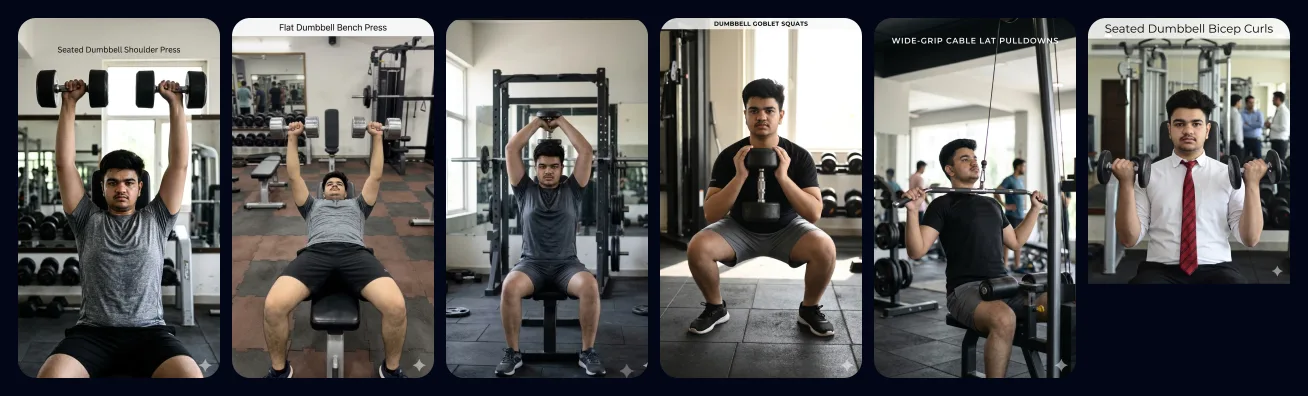
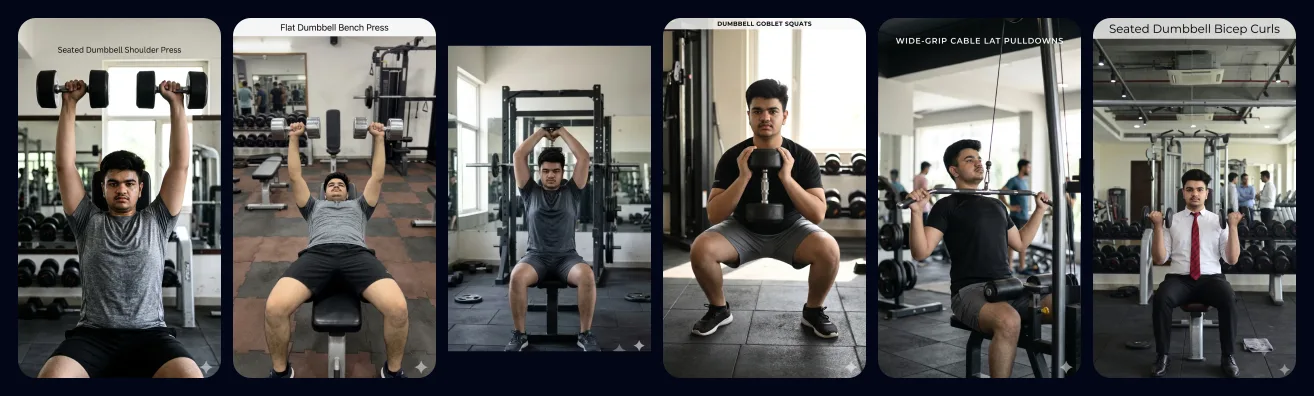
Verify vs Gita; fix stuck-day + streak-timezone bugs; rebuild preview
- README preview rebuilt from the corrected 9:16 images (no more cropped/half tile)
- Bug: a points target above a category's card count made the day un-finishable.
  addCompletion now takes an effective target; Workout/DayDetail cap it to the cards
  actually available that day.
- Bug: getDayStreak compared a UTC date (finishedAt.slice) against local dates, mis-
  counting streaks near midnight — now uses the local calendar date consistently.
- iOS audio unlock: prime the AudioContext on circuit Start so the timer-end chime plays.
- Gita audit: all core laws verified against the implementation.

diff --git a/frontend/src/lib/storage.js b/frontend/src/lib/storage.js
@@ -221,7 +221,7 @@ const ensureWorkout = (data, profileId, weekStartIso, dayNum) => {
   return data.workouts[profileId][weekStartIso][dayNum];
 };
 
-export const addCompletion = (profileId, weekStartIso, dayNum, exerciseId, name) => {
+export const addCompletion = (profileId, weekStartIso, dayNum, exerciseId, name, target) => {
   const data = load();
   const w = ensureWorkout(data, profileId, weekStartIso, dayNum);
   // Prevent duplicates
@@ -244,7 +244,10 @@ export const addCompletion = (profileId, weekStartIso, dayNum, exerciseId, name)
     data.counts[profileId][exerciseId] = (data.counts[profileId][exerciseId] || 0) + 1;
   }
   data.lastCompletionAt[profileId] = new Date().toISOString();
-  if (w.completions.length >= getPointsTarget()) {
+  // `target` lets the caller cap completion at the cards actually available that day
+  // (so a high points setting on a small category can't make the day un-finishable).
+  const effectiveTarget = Math.max(1, target || getPointsTarget());
+  if (w.completions.length >= effectiveTarget) {
     w.dayCompleted = true;
     w.finishedAt = new Date().toISOString();
     data.progress[profileId] ||= {};
@@ -519,15 +522,16 @@ export const updateCustomCard = (profileId, cardId, patch) => {
 // Current consecutive-day workout streak (counts today if done, else from yesterday).
 export const getDayStreak = (profileId) => {
   const wk = load().workouts[profileId] || {};
+  const iso = (dt) =>
+    `${dt.getFullYear()}-${String(dt.getMonth() + 1).padStart(2, "0")}-${String(dt.getDate()).padStart(2, "0")}`;
   const set = new Set();
   Object.values(wk).forEach((week) =>
     Object.values(week).forEach((d) => {
-      if (d?.dayCompleted && d.finishedAt) set.add(d.finishedAt.slice(0, 10));
+      // Use the LOCAL calendar date of the completion (finishedAt is a UTC ISO string).
+      if (d?.dayCompleted && d.finishedAt) set.add(iso(new Date(d.finishedAt)));
     })
   );
   if (set.size === 0) return 0;
-  const iso = (dt) =>
-    `${dt.getFullYear()}-${String(dt.getMonth() + 1).padStart(2, "0")}-${String(dt.getDate()).padStart(2, "0")}`;
   const day = new Date();
   day.setHours(0, 0, 0, 0);
   if (!set.has(iso(day))) day.setDate(day.getDate() - 1); // today not done yet → start at yesterday

diff --git a/frontend/src/pages/Workout.jsx b/frontend/src/pages/Workout.jsx
@@ -25,7 +25,6 @@ export default function Workout() {
   const today = todayDayNum();
   const dayUnlocked = !!week?.seed || today === 7 || dayNum === today;
   const circuitMin = Math.round(getCircuitSeconds() / 60);
-  const POINTS_TARGET = getPointsTarget();
   const displayCount = getDisplayCount();
 
   const [completedIds, setCompletedIds] = useState(() => {
@@ -83,6 +82,10 @@ export default function Workout() {
     () => allCards.filter((e) => !completedIds.has(e.id)),
     [allCards, completedIds]
   );
+
+  // Effective target can't exceed the cards actually available this day, or the day
+  // could never complete (e.g. a high points setting on a small category).
+  const POINTS_TARGET = Math.min(getPointsTarget(), allCards.length || getPointsTarget());
 
   const safeIdx = remaining.length ? Math.min(currentIdx, remaining.length - 1) : 0;
   const current = remaining[safeIdx];
@@ -153,7 +156,7 @@ export default function Workout() {
 
   const completeCurrent = () => {
     if (!current || completingId || current.type === "B" || guardActive) return;
-    addCompletion(pid, weekStart, dayNum, current.id, current.name);
+    addCompletion(pid, weekStart, dayNum, current.id, current.name, POINTS_TARGET);
     removeCard(current, "complete");
   };
 
@@ -190,7 +193,7 @@ export default function Workout() {
 
   const onCircuitFinish = () => {
     if (!current || current.type !== "B") return;
-    addCompletion(pid, weekStart, dayNum, current.id, current.name);
+    addCompletion(pid, weekStart, dayNum, current.id, current.name, POINTS_TARGET);
     setCircuitOpen(false);
     removeCard(current, "complete");
   };
@@ -325,7 +328,7 @@ export default function Workout() {
                     </div>
                     <button
                       data-testid="circuit-start-button"
-                      onClick={() => setCircuitOpen(true)}
+                      onClick={() => { beep(1, 1); setCircuitOpen(true); }}
                       className="w-full mt-4 bg-indigo-400 text-slate-950 rounded-2xl py-3.5 font-body font-semibold flex items-center justify-center gap-2 min-h-[52px] active:bg-indigo-300"
                     >
                       <Play className="w-4 h-4 fill-current" strokeWidth={2} />

diff --git a/frontend/src/pages/DayDetail.jsx b/frontend/src/pages/DayDetail.jsx
@@ -24,9 +24,9 @@ export default function DayDetail() {
   const title = meta && !meta.rest ? categoryTitle(catId) : (meta?.title || "");
   const blurb = meta ? CATEGORY_BLURBS[meta.rest ? "Rest" : title] : null;
   const workout = pid ? getWorkout(pid, weekStart, dayNum) : null;
-  const pointsTarget = getPointsTarget();
   const poolSize = (EXERCISES[catId] || []).length + (pid && !meta?.rest ? getCustomCardsForCategory(pid, catId).length : 0);
   const aCount = Math.min(poolSize, getDisplayCount());
+  const pointsTarget = Math.min(getPointsTarget(), aCount || getPointsTarget());
   const completedCount = workout?.completions?.length || 0;
   const status = workout?.dayCompleted ? "done" : "pending";
   const today = todayDayNum();
